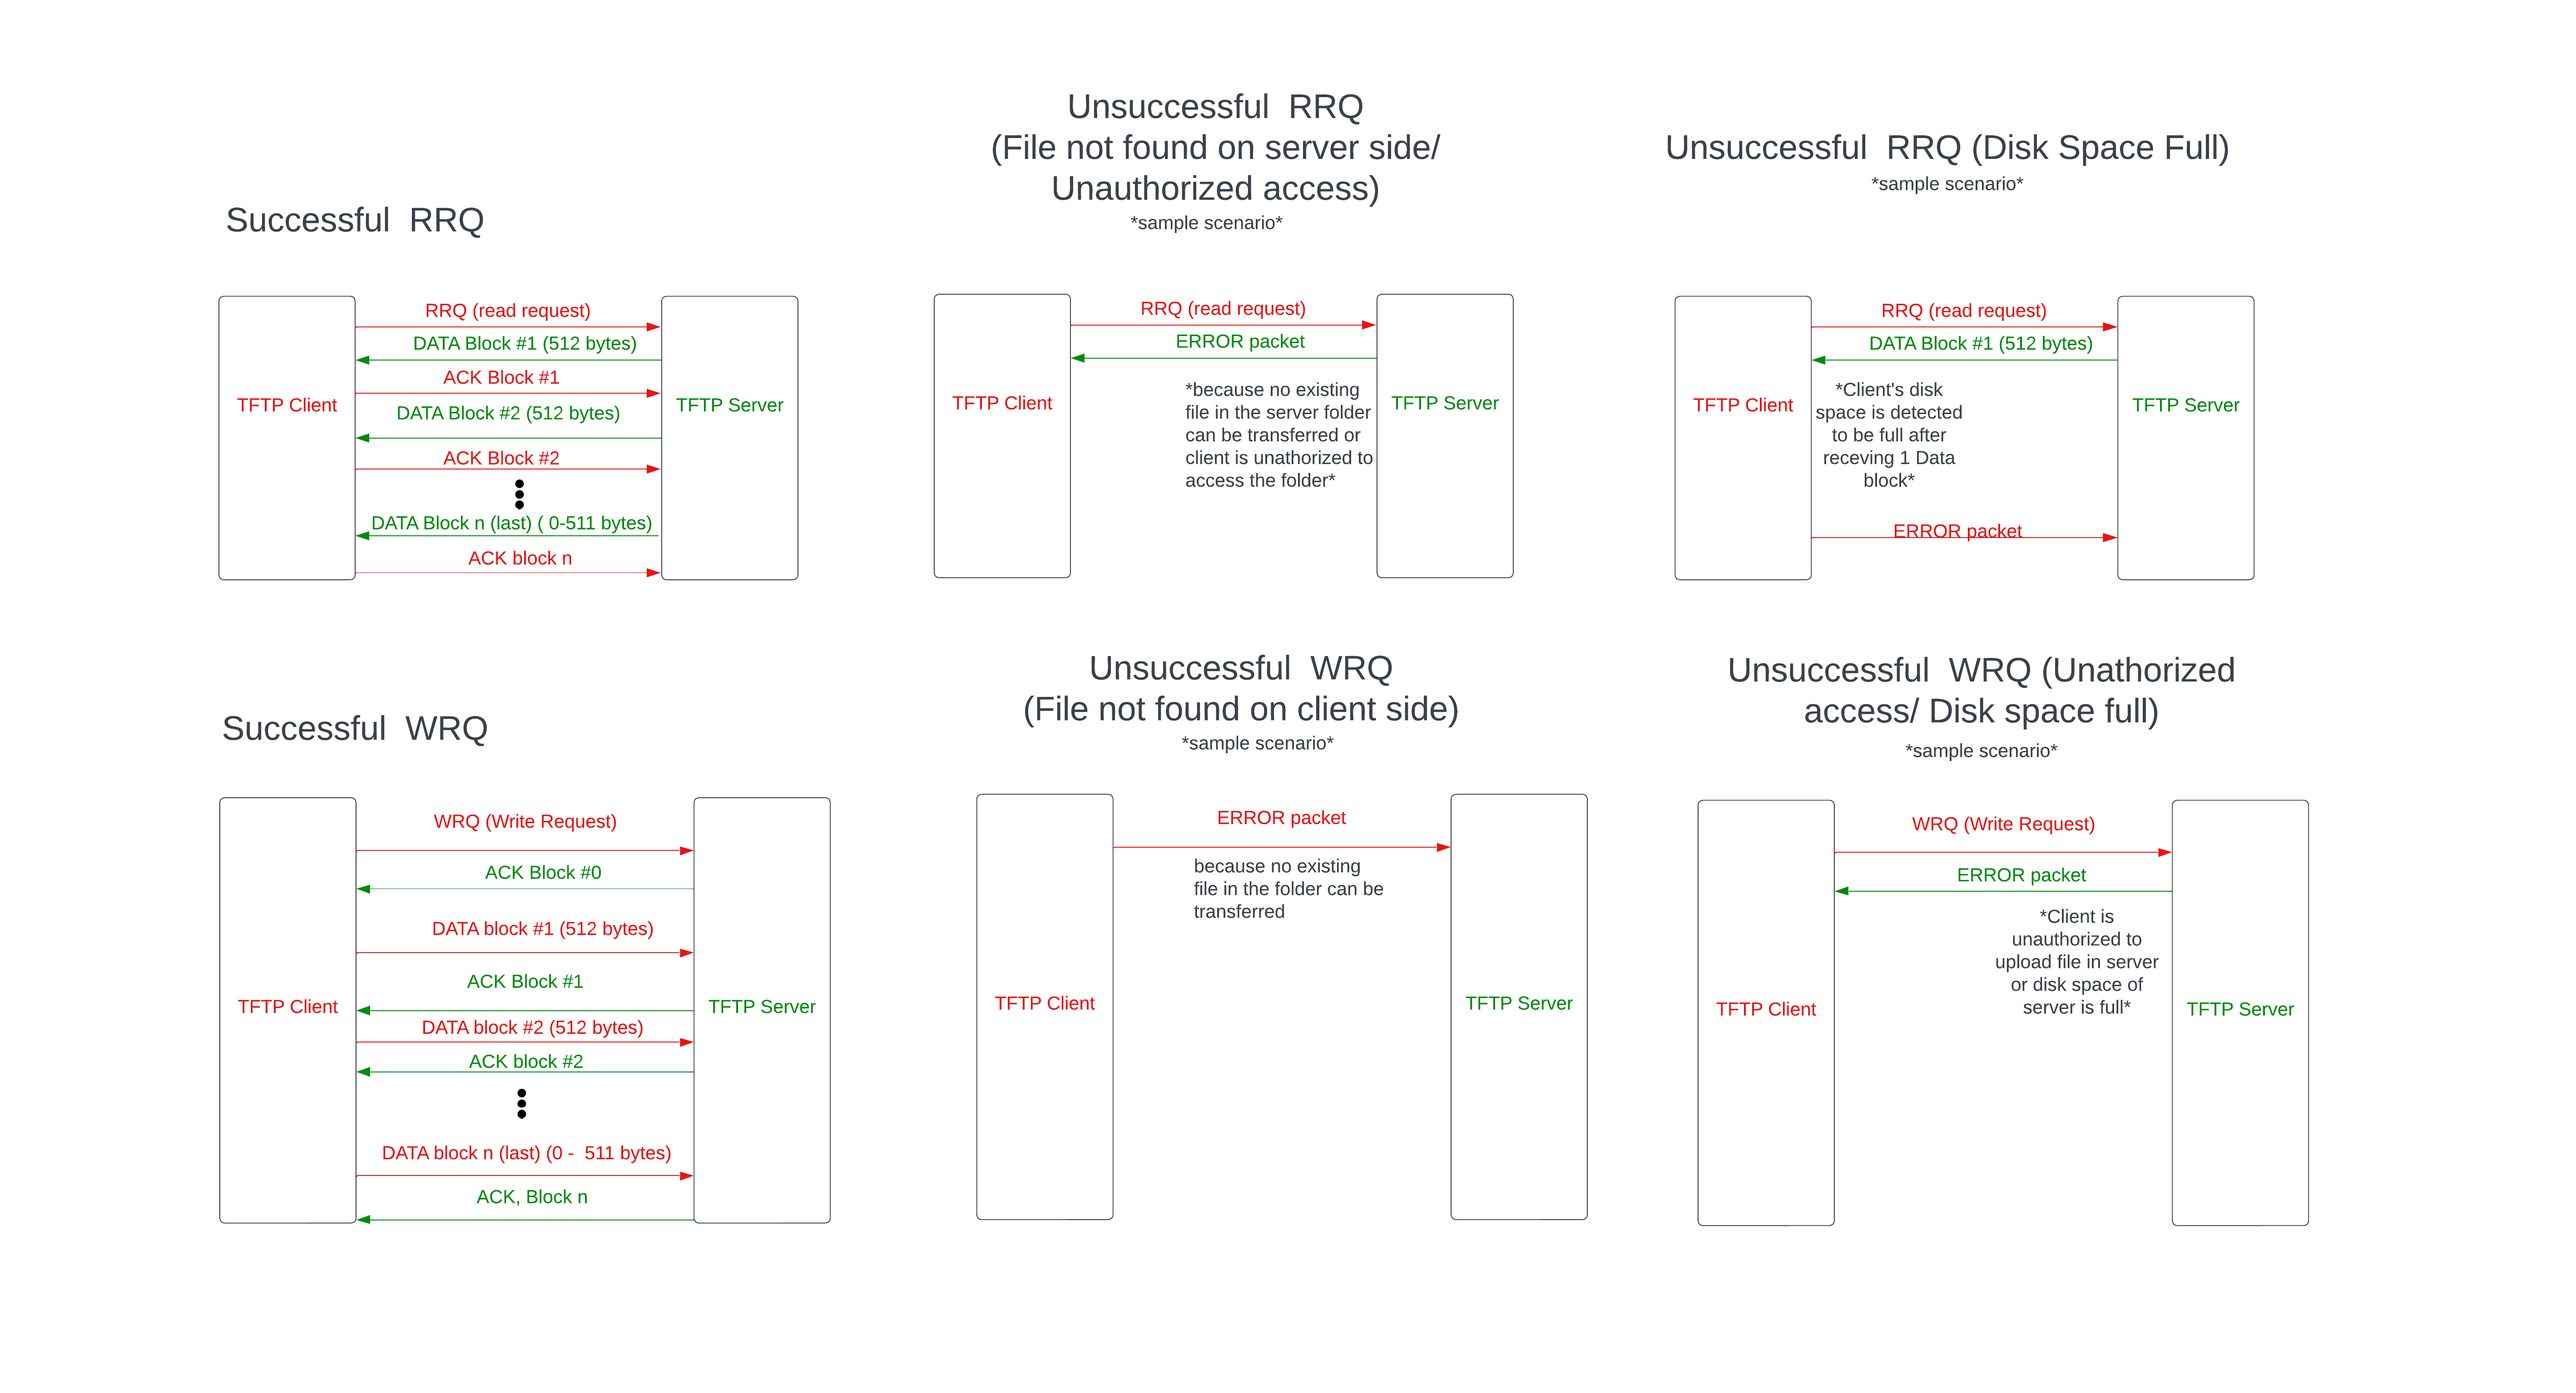
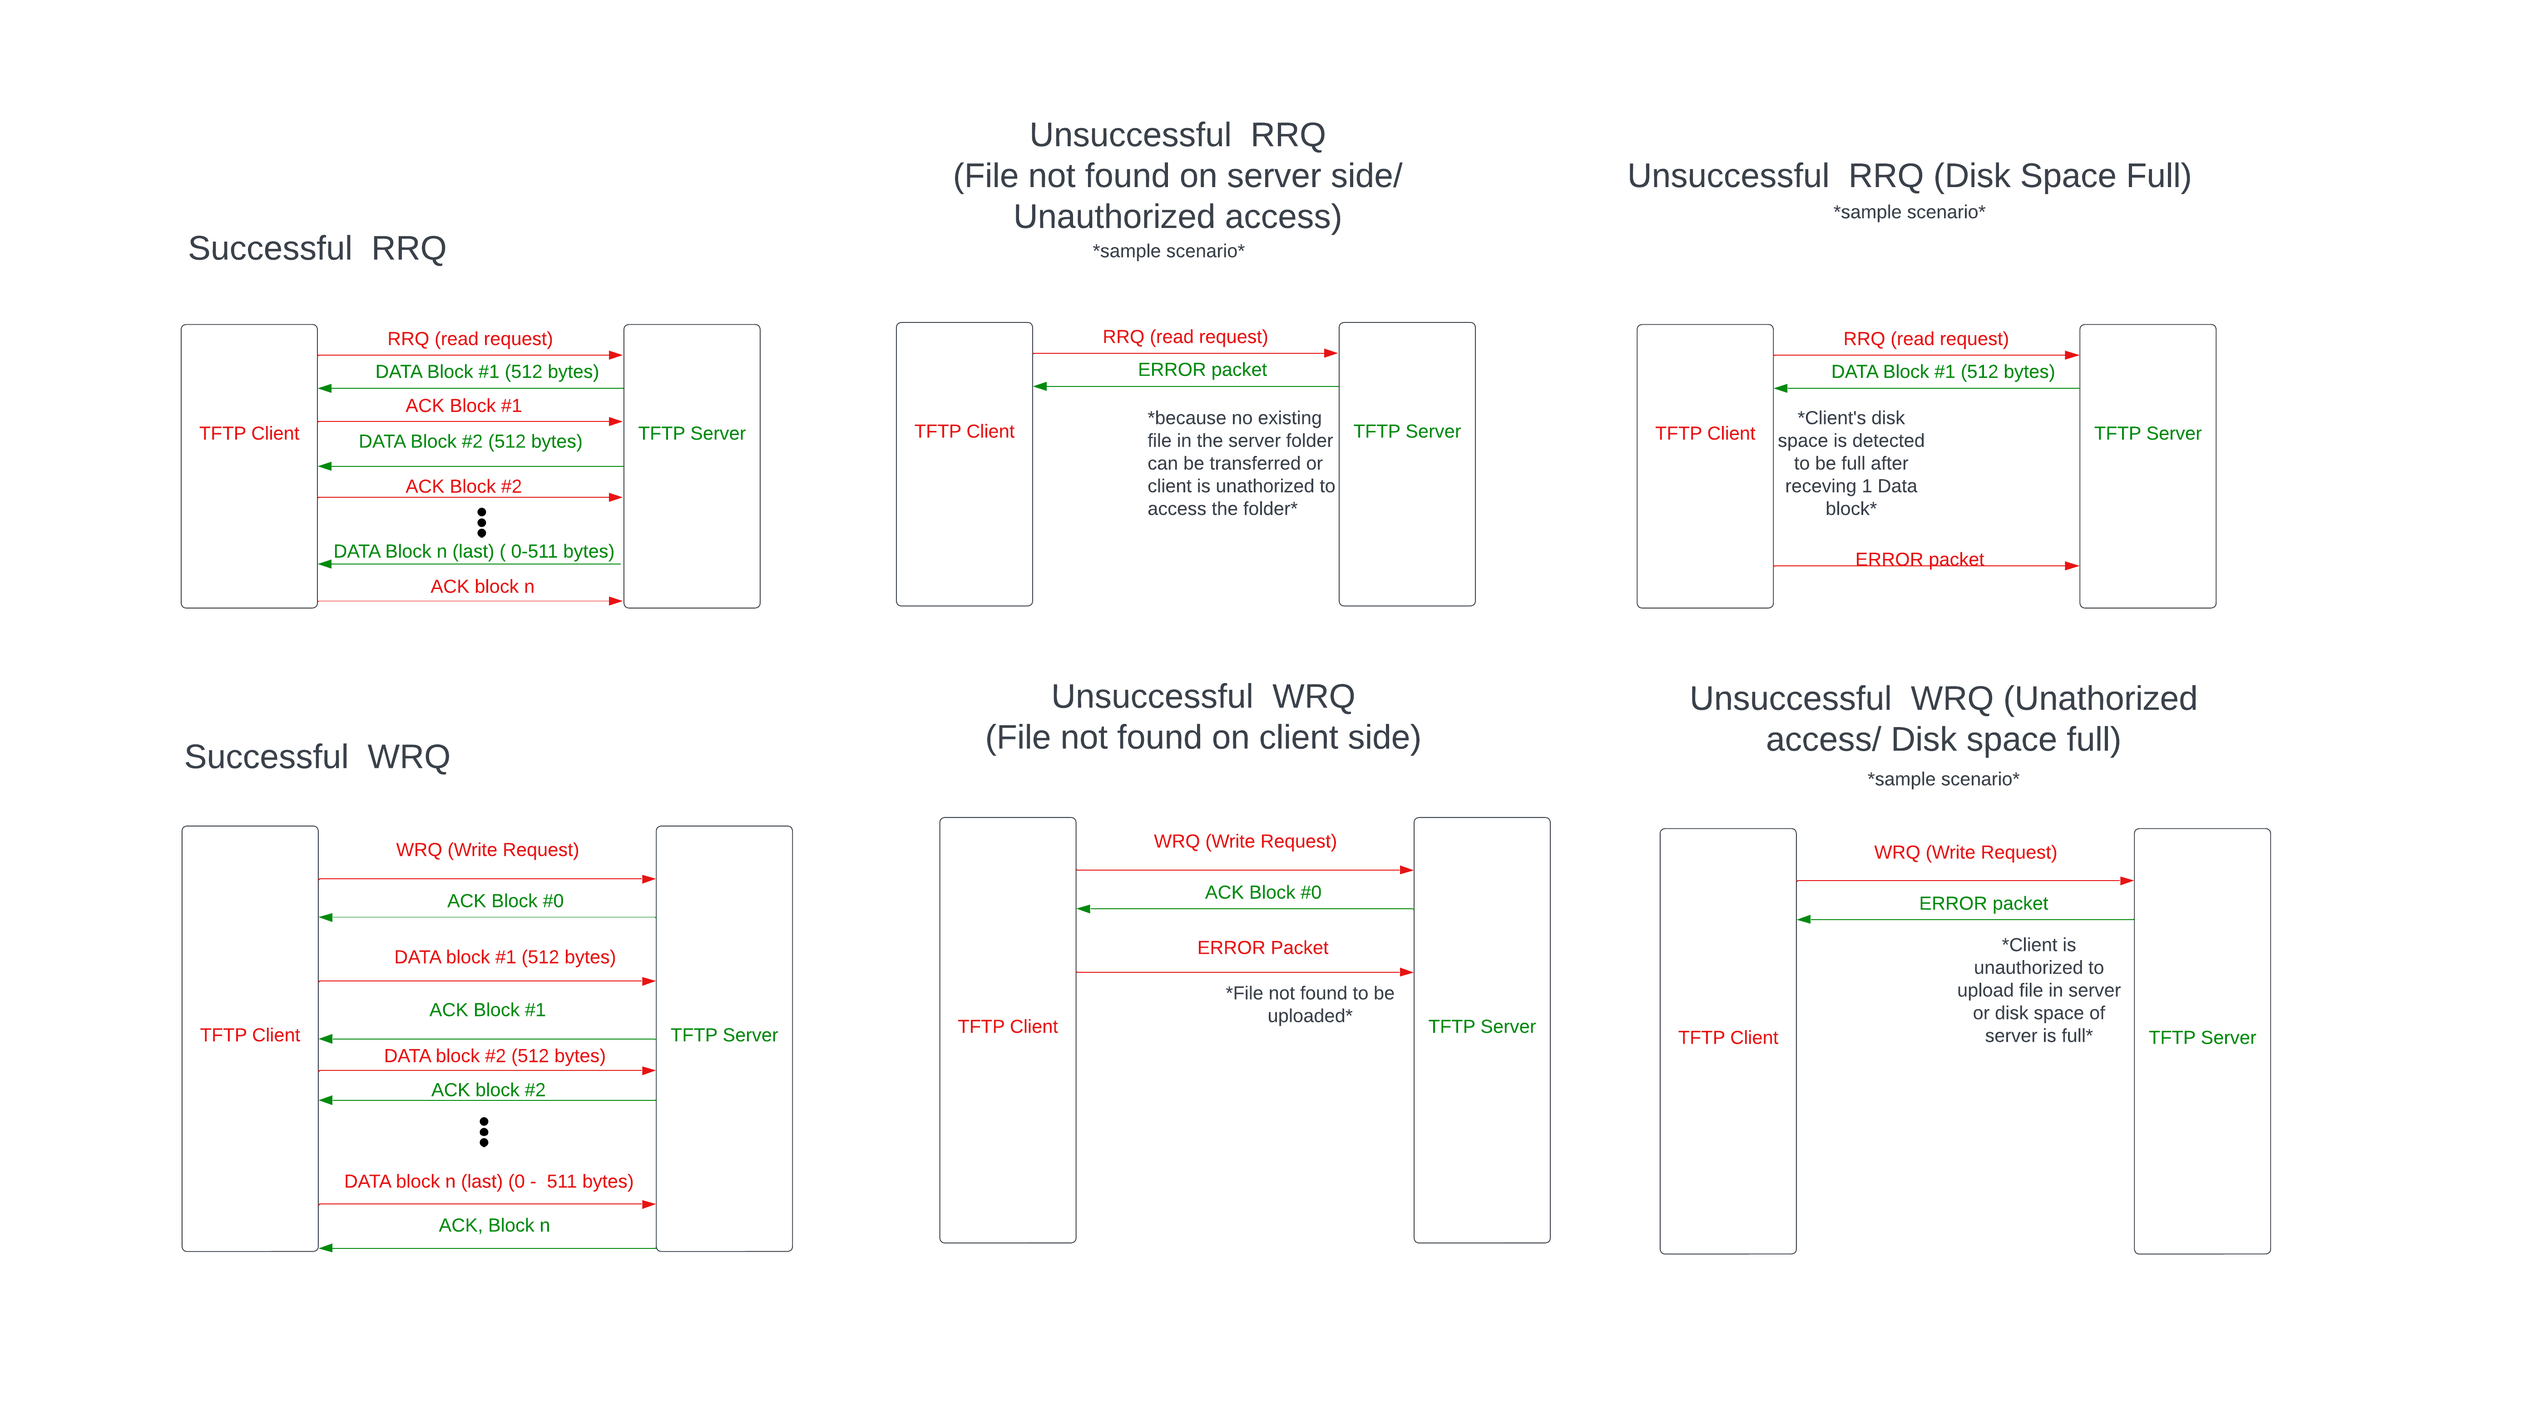
wrq changes

diff --git a/client/tftp-client.py b/client/tftp-client.py
@@ -256,12 +256,13 @@ def tftp_client_put(server_ip, file_dir, server_port, client_filename, server_fi
 
     # complete local file path that combines the file directory and filename
     local_filename = os.path.join(file_dir, client_filename)
-    if os.path.isfile(local_filename):
-        # Send WRQ packet
-        wrq_packet = create_packet_wrq(server_filename, mode)
-        sock.sendto(wrq_packet, (server_ip, server_port))
 
-        # Receive ACK packets and send DATA packets
+    # Send WRQ packet
+    wrq_packet = create_packet_wrq(server_filename, mode)
+    sock.sendto(wrq_packet, (server_ip, server_port))
+
+    # Receive ACK packets and send DATA packets
+    if os.path.isfile(local_filename):
         with open(client_filename, "rb") as f:
             block_number = 1
             while True:
@@ -291,11 +292,17 @@ def tftp_client_put(server_ip, file_dir, server_port, client_filename, server_fi
                     print(f"Error {error_code}: {error_message}")
                     return
     else:
+        try:
+            packet, (server_ip, server_port) = sock.recvfrom(block_size + 4)
+        except socket.timeout:
+            print("Timeout waiting for server response")
+            return
         # creates error packet
         print(f"Error {ERR_FILE_NOT_FOUND}: {ERROR_MESSAGES[ERR_FILE_NOT_FOUND]}")
         error_packet = create_packet_error(ERR_FILE_NOT_FOUND, ERROR_MESSAGES[ERR_FILE_NOT_FOUND])
         # informs the server that the requested file was not found.
         sock.sendto(error_packet, (server_ip, server_port))
+        return
 
 def list_files_and_sizes(directory):
     for file in os.listdir(directory):
